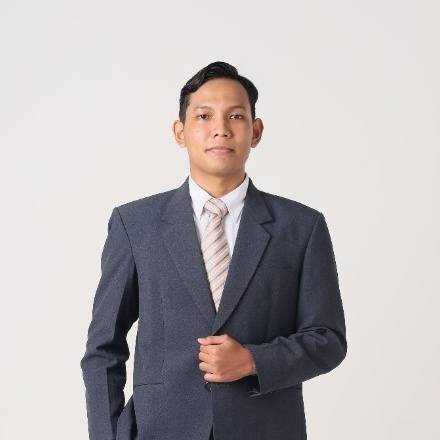
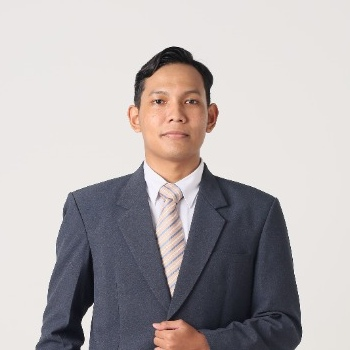
style: optimize hero photo zoom for closer and fuller portrait framing

Changed region(s): [[0.0857, 0.1143, 0.8857, 1.0], [0.3429, 0.9714, 0.4, 1.0]]

diff --git a/index.html b/index.html
@@ -177,7 +177,7 @@
         <!-- Right Column -->
         <div class="hero-profile-block">
           <div class="hero-photo-ring">
-            <img src="POTO.jpeg?v=2" alt="Maulana Fatih Abiyyin Profile Photo" class="hero-photo" loading="eager">
+            <img src="POTO.jpeg?v=3" alt="Maulana Fatih Abiyyin Profile Photo" class="hero-photo" loading="eager">
           </div>
           <div class="hero-identity">
             <h2 class="hero-person-name">MAULANA FATIH ABIYYIN</h2>
